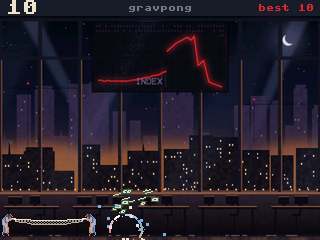
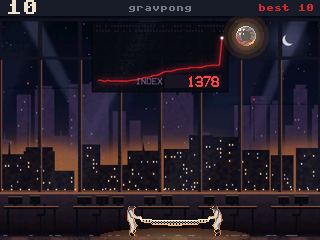
P573: the review's findings: the README's picture is the bubble in flight over the ticker board (frame 372 of the row), the GIF re-rendered with the bigger crew (512 KB; render_scene --all changed only gravitypong.png and .gif); the README row is two plain sentences, the comparison with "Economic Bu

Changed region(s): [[0.0, 0.7875, 0.7812, 1.0], [0.5, 0.0583, 0.8438, 0.3792]]

diff --git a/tools/render_scene.py b/tools/render_scene.py
@@ -104,7 +104,7 @@ SUBJECTS = {  # the fire, the rain, app.GAMES in their order, the overlay; the p
     "starfire": Subject(Starfire, Starfire.hint, 5, 105, hold=3),
     "cubetiming": Subject(CubeTiming, CubeTiming.hint, 5, 99, tap=25),
     "gravitypong": Subject(GravityPong, GravityPong.hint, 240, 432, presses=tuple((k, 1) for k in (
-        0, 8, 14, 36, 42, 48, 52, 90, 94, 132, 170, 208, 210, 246, 250, 286, 308, 312)), shot=391),
+        0, 8, 14, 36, 42, 48, 52, 90, 94, 132, 170, 208, 210, 246, 250, 286, 308, 312)), shot=372),
     "overlay": Subject(balls.BallPit, "turn the knob", 5, 80, every=3, tap=10, show=0),
 }
 

diff --git a/README.md b/README.md
@@ -83,7 +83,7 @@ Every subject, with the button pattern that made its picture (`tools/render_scen
 | Road | tap lane, hold boost | The car on a road that bends, the mountains and the sun behind it. | <a href="docs/screenshots/road.gif"><img src="docs/screenshots/road.png" width="160"></a> |
 | Starfire | tap fires | The laser from the ship's nose, the reticle on a target and a point. | <a href="docs/screenshots/starfire.gif"><img src="docs/screenshots/starfire.png" width="160"></a> |
 | CubeTiming | tap: mark faces you | A wire cube turns over the timing bar. A tap marks the face that faces you, and a lost life flashes red. | <a href="docs/screenshots/cubetiming.gif"><img src="docs/screenshots/cubetiming.png" width="160"></a> |
-| GravityPong as BUBBLE | tap turns the net | An exchange floor at midnight. Two night workers carry a net and keep a soap bubble in the air; it swells every four catches, and the ticker board's index climbs. The bubble misses the net, hits the floor and pops into banknotes, and the board's chart crashes: IT WAS NEVER REAL. "Economic Bubble" shares the premise but not the verb (P577, [#781](https://github.com/xmejkal/spark/issues/781)): here you only turn the two workers under a net, the bubble swells at each bounce, and the workers tire. | <a href="docs/screenshots/gravitypong.gif"><img src="docs/screenshots/gravitypong.png" width="160"></a> |
+| GravityPong as BUBBLE | tap turns the net | Two night workers on an exchange floor at midnight carry a net and keep a soap bubble in the air, and it swells as the score climbs while the tired workers' net shrinks. The picture shows the bubble in flight over the ticker board; in the GIF it misses the net and pops into banknotes, and the board's chart crashes. | <a href="docs/screenshots/gravitypong.gif"><img src="docs/screenshots/gravitypong.png" width="160"></a> |
 | the overlay | turn the knob | The volume pane over the ball pit, see-through at alpha 128, so the balls show through its dark part. | <a href="docs/screenshots/overlay.gif"><img src="docs/screenshots/overlay.png" width="160"></a> |
 
 ## Build and run
@@ -279,7 +279,7 @@ Runs now:
   `/spark:identify`: list its open facts with `parts.py --unverified inmp441-i2s-mic-round --project .`. The wiring
   guide with pictures is `docs/wiring.html`, also at https://claude.ai/artifact/Xyppus2vF8xmC3Etc9Rbm4.
 - The HUD is drawn once into a strip and blitted each frame (P599).
-- Fifteen games. One is an effect scene: the ball pit. Marshmallow is a game on the fire's field, Bucket a game on the rain's physics and Meteors a game on the bodies on fire (P773). Seven are painted: runner, flappy, stack (stack as RENT), rescue (P800, a fireman and the people he saves from motion capture, under meteors, on the fire's field), Meteors and Bucket (P773), and GravityPong as BUBBLE (P573). The other six are flat: Snake, Cave, Tunnel, Road, Starfire and CubeTiming. Each game loads only its own painted set when the box switches to it (P773); the largest, runner's, sets the size of the one block they are read into.
+- Fifteen games. One is an effect scene: the ball pit. Marshmallow is a game on the fire's field, Bucket a game on the rain's physics and Meteors a game on the bodies on fire (P773). Seven are painted: runner, flappy, stack (stack as RENT), rescue (P800, a fireman and the people he saves from motion capture, under meteors, on the fire's field), Meteors and Bucket (P773), and GravityPong as BUBBLE (P573). The other six are flat: Snake, Cave, Tunnel, Road, Starfire and CubeTiming. Each game loads only its own painted set when the box switches to it (P773); the largest, runner's, sets the size of the one block they are read into. All the painted art is 3,523,544 B (art/paint.py's count, 2026-11-14); the load time on the board is not measured since.
 - The double buffer: the game paints into PSRAM, and `show()` copies the frame and returns.
 - Measured fps per painted game, from `bench.md`: flappy 24 under an autopilot (run92, the P602 run before the fire went on), runner 21 to 24 with no play, both at a 40 ms frame pace; stack 24.
 

diff --git a/bench.md b/bench.md
@@ -1589,3 +1589,6 @@ than the control.
   the score) is asked at the same play.
 - Before and after: not run yet. The "before" run is his 3-minute play of master's GravityPong on the board, then the
   deploy of this branch and his 3-minute play of BUBBLE, in the same session.
+- For the PO, before the play: a bot that taps when the net goes the wrong way scores about the same as on master
+  (a mean of 24.8 against 21.8 over 12 seeds when it looks one frame in two), after the swelling bubble alone had
+  made it 214.0. Look for flatness: whether the round still feels the same from 0 to 20 points.
